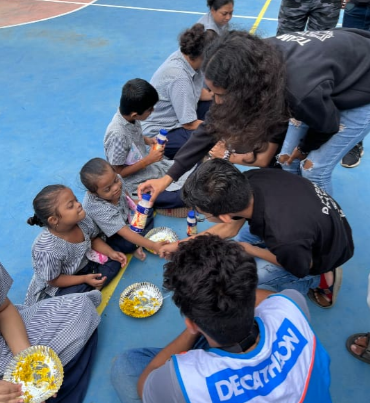
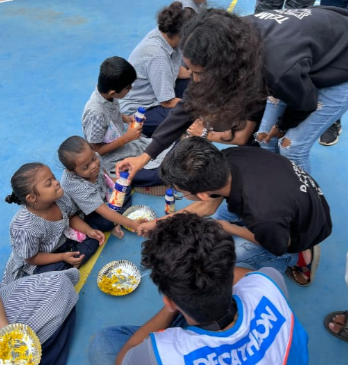
changes

diff --git a/src/Data/Fsr.js b/src/Data/Fsr.js
@@ -1,4 +1,5 @@
 import fsr from "../assets/images/media/fsrfood.png";
+import fsr1 from "../assets/images/gallary/fsr12.jpg";
 const FsrData = [
   {
     id: 1,
@@ -6,7 +7,7 @@ const FsrData = [
     name: "Social Service",
 
     imgSrc:
-      "https://res.cloudinary.com/dwevqwmg7/image/upload/v1705586804/fsr/ube47tsvbczh4mbe97iw.jpg",
+      fsr1,
 
     content:
       "This year, in collaboration with Arpan Charitable Trust and House of Humanity we spent a heartwarming day with 30 differently-abled people, sharing laughter, delicious food, and unforgettable moments at 1331 Diner. Through kindness and connection, FSR celebrates humanity, creating smiles that inspire a brighter, more compassionate world.",
